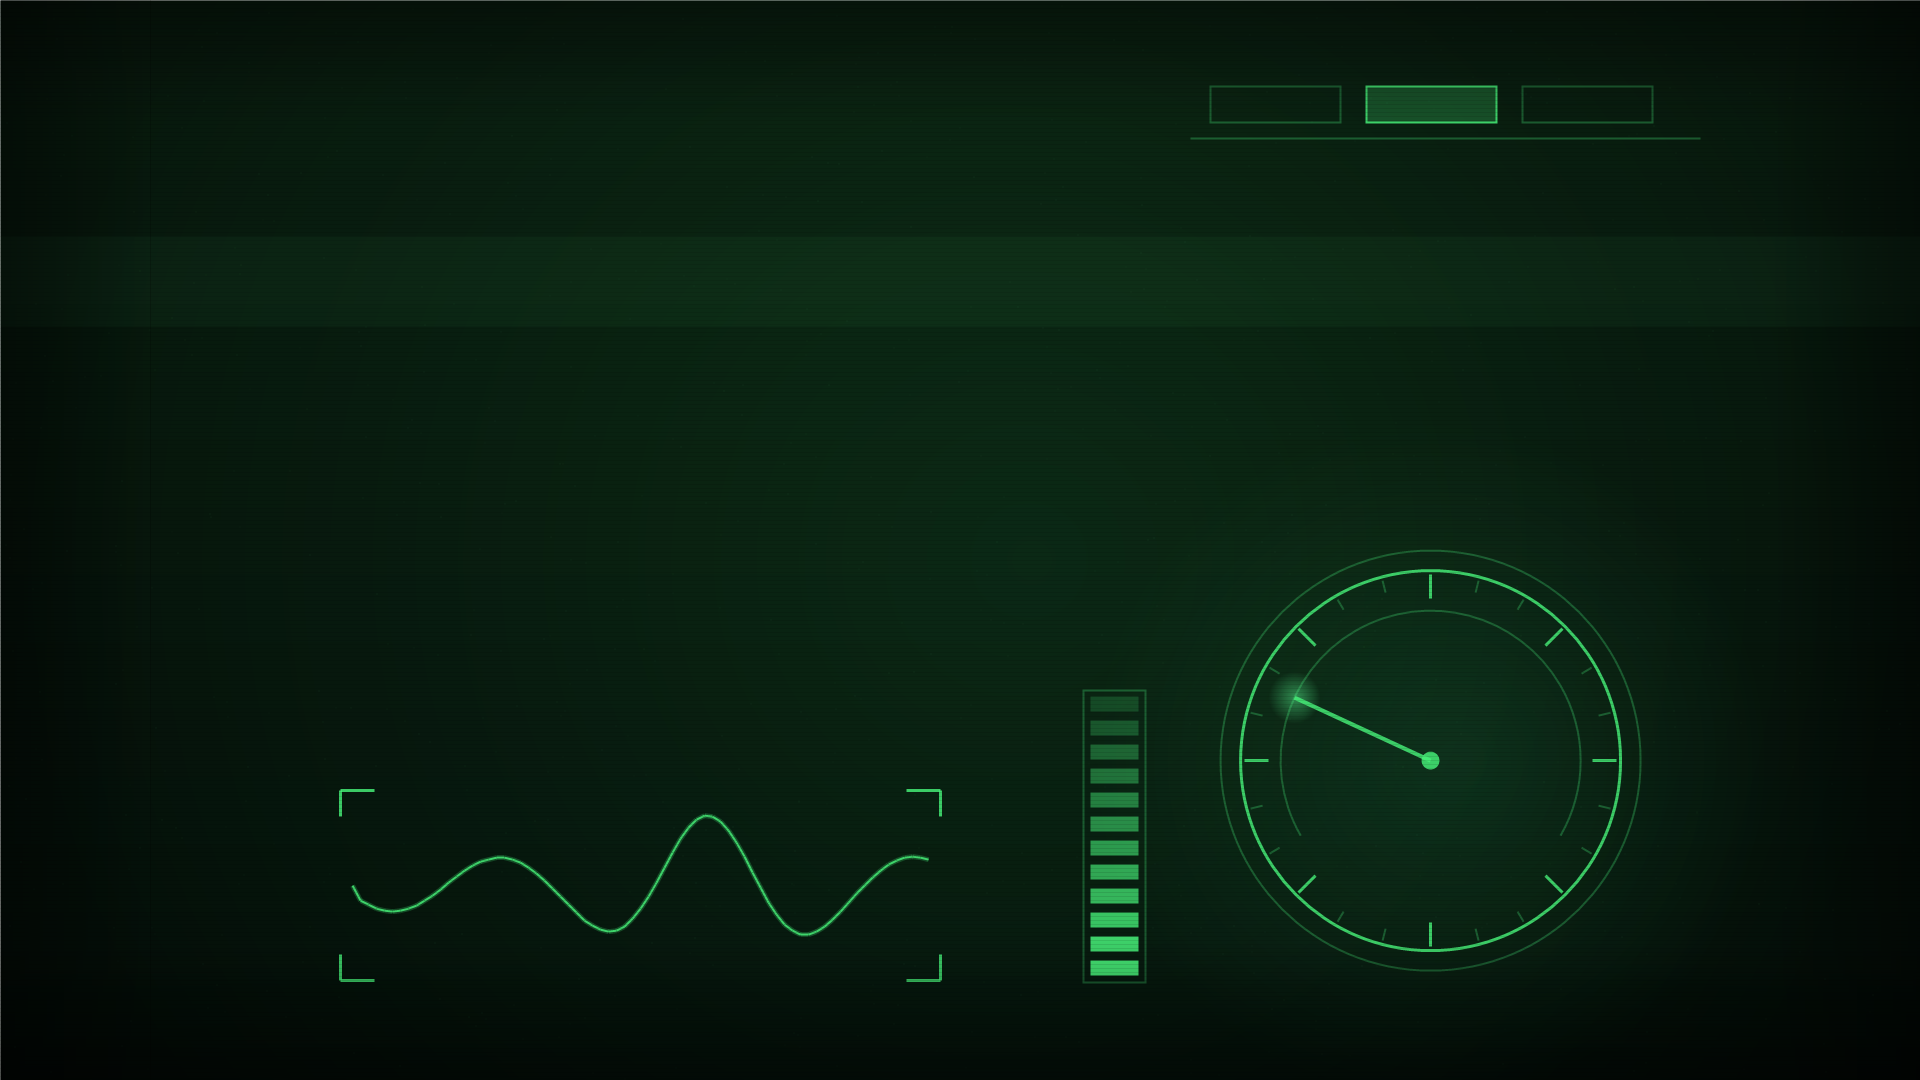
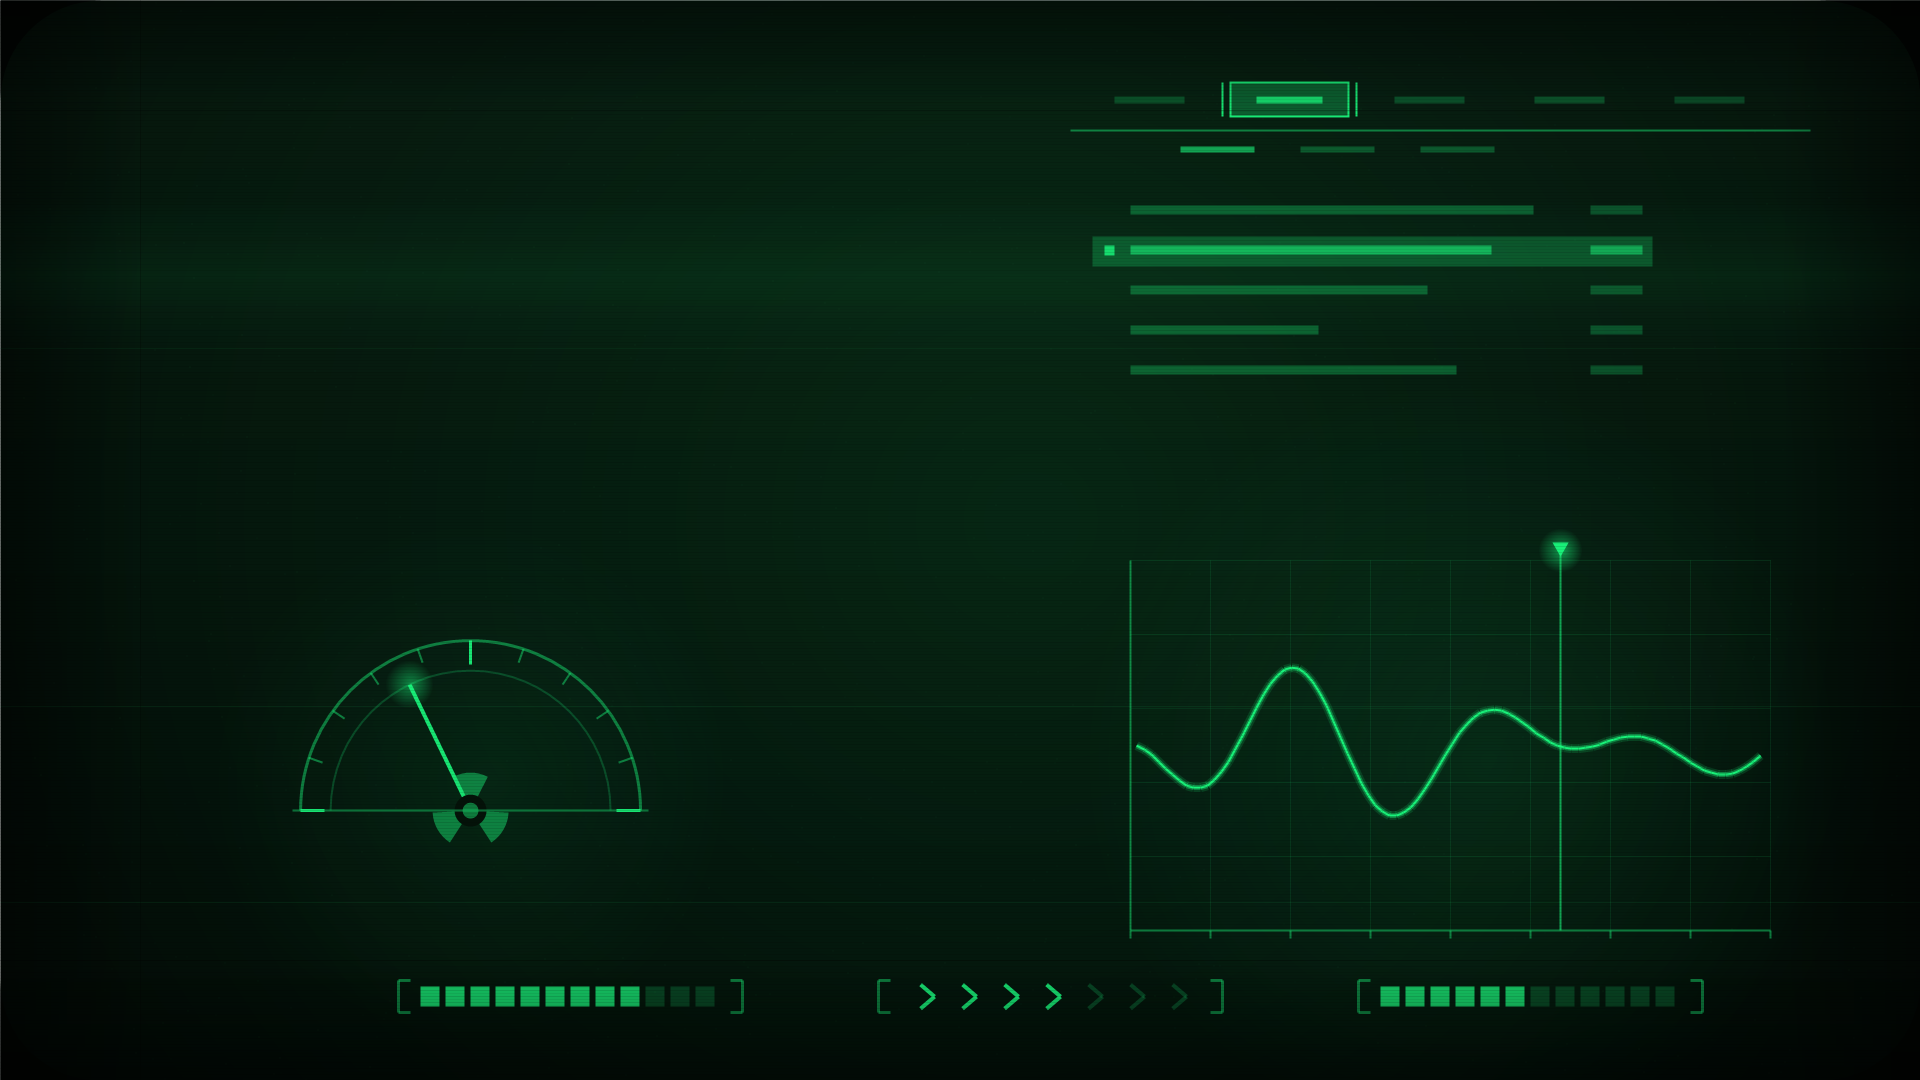
Pip-Boy v2: researched screen layout and canonical phosphor green
Rebuilt from actual Pip-Boy screen anatomy: five-tab header with a
bracketed active tab and sub-tab ticks, a selected-row data list, an
oscilloscope radio graph with grid and tuning marker, a radiation
arc gauge with trefoil hub, and a bracketed segmented HP/LEVEL/AP
footer. CRT treatment: interlaced scanlines, soft roll band, jitter
rows, center bloom, and properly rounded bezel corners (arc-sliver
masks; the rect+ellipse alternate-fill filled the ellipse lobes
too). Palette moved to the classic #1aff80 phosphor (Fallout 3/NV
default). Contrast audit still passes all 27.

diff --git a/src/main.ts b/src/main.ts
@@ -1101,14 +1101,14 @@ THEMES.pipboy = mkTheme(
   ['"Lucida Console", Consolas, monospace', 1.2, "block"],
   'linear-gradient(rgba(4,16,9,0.42), rgba(4,16,9,0.58)), url("/backgrounds/pipboy.png") center / cover no-repeat, linear-gradient(180deg, #08170d, #04100a)',
   "#06130a",
-  "#2bf06a",
+  "#1aff80",
   [
-    "#06130a", "#ff8d7a", "#2ee868", "#a9f06e", "#3fd98a", "#63e8a8", "#8dffc4", "#c9ffdb",
-    "#1e7a44", "#ffab99", "#55ff92", "#c9ff90", "#66e8aa", "#9effc9", "#c2ffe0", "#ebfff3",
+    "#06130a", "#ff8d7a", "#1de876", "#a9f06e", "#2fd98f", "#63e8a8", "#7dffc9", "#c4ffdf",
+    "#1e7a44", "#ffab99", "#4dff9d", "#c9ff90", "#5ce8ab", "#9effc9", "#c2ffe0", "#ebfff3",
   ]
 );
-THEMES.pipboy.xterm.cursor = "#55ff92";
-THEMES.pipboy.xterm.selectionBackground = "#2bff6633";
+THEMES.pipboy.xterm.cursor = "#3aff95";
+THEMES.pipboy.xterm.selectionBackground = "#1aff8033";
 
 // NieR: the YoRHa menu look — beige paper, olive-gray ink, bronze
 // accent, drop-shadowed UI bars in the backdrop.
